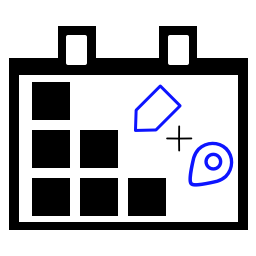
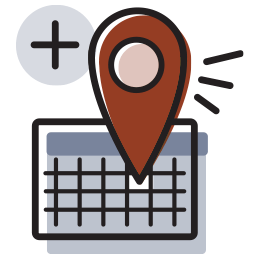
update README and assets

diff --git a/README.md b/README.md
@@ -1,3 +1,5 @@
+![Deltec Banner](/assets/banner-1544x500.png)
+
 # Display Event Location for The Events Calendar 
 [![Build Status](https://travis-ci.com/mike-weiner/display-event-locations-tec.svg?branch=master)](https://travis-ci.com/mike-weiner/display-event-locations-tec)
 ![WordPress Plugin Downloads](https://img.shields.io/wordpress/plugin/dt/display-event-locations-tec)
@@ -137,12 +139,22 @@ As great as the block editor is it can cause issues, sometimes. For events that 
 3. This is what the tooltip for a regular event will look like after activating this plugin with the location name and street address enabled with the v2 calendar template.
 4. This is what the tooltip for a featured event will look like after activating this plugin with only the location name enabled with the v2 calendar template.
 5. This is what the tooltip for a featured event will look like after activating this plugin with the location name and street address enabled with the v2 calendar template.
-6. This is what the tooltip for a regular event will look like after activating this plugin with only the location name enabled with the legacy calendar template.
-7. This is what the tooltip for a regular event will look like after activating this plugin with the location name and street address enabled with the legacy calendar template.
-8. This is what the tooltip for a featured event will look like after activating this plugin with only the location name enabled with the legacy calendar template.
-9. This is what the tooltip for a featured event will look like after activating this plugin with the location name and street address enabled with the legacy calendar template.
 
 ## Changelog
+
+### 4.0.0
+* Released on December xx, 2021
+* Added: Updated logo and banner assets created by Danielle Attinella
+* Removed: Removed screenshot assets that showed legacy views as they are being retired by The Events Calendar in Q1 '22
+* Added: `assets/banner-772x250.png`
+* Added: `assets/banner-1544x500.png`
+* Deleted: `assets/screenshot-6.png`
+* Deleted: `assets/screenshot-7.png`
+* Deleted: `assets/screenshot-8.png`
+* Deleted: `assets/screenshot-9.png`
+* Edited: `assets/icon-128x128.png`
+* Edited: `assets/icon-256x256.png`
+* Edited: `README.md`
 
 ### 3.3.3
 * Released on November 25, 2020
@@ -361,6 +373,9 @@ As great as the block editor is it can cause issues, sometimes. For events that 
 
 ## Upgrade Notice
 
+### 4.0.0
+A refresh of the assets for the plugin are officially here! A *big* thank you to Danielle Attinella for the amazing work on the new icon and banner image.
+
 ### 3.3.3
 No major updates to report! Lots of work has gone on behind the scenes to make sure my plugin will be WordPress v5.6 compatible when when it is released early next month. You can feel free to safely update knowing things should continue to work. As always, if you have any issues or questions please feel free to submit a support ticket!
 
@@ -433,3 +448,5 @@ Below are resources and references that were used to help develop parts of this 
 
 ### Special Thanks:
 A special thank you to user [@cliffordp](https://github.com/cliffordp) for several helpful gists (linked in the [resources](https://github.com/mike-weiner/display-event-locations-tec#references) section) that were used as boilerplates achieve certain functionality within this plugin.
+
+Thank you to [Danielle Attinella](https://ella-ella.studio) for her amazing work on designing a new icon and banner image for the plugin. Her work is simply superb!
